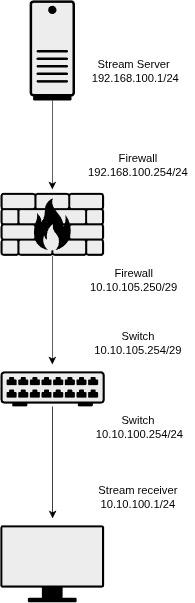
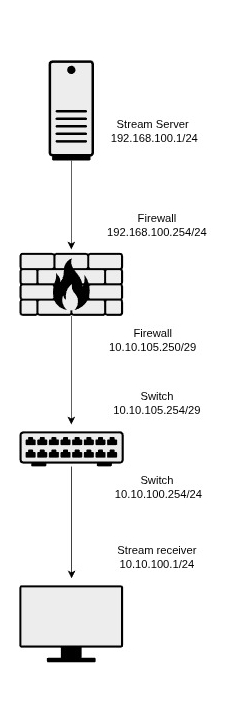
Fix image and grammar in Multicast post

Changed region(s): [[0.0, 0.0, 0.9538, 1.0], [0.4615, 0.0896, 0.9231, 0.209]]

diff --git a/_posts/2026-03-13-Aruba-FortiNet-Multicast-Routing.md b/_posts/2026-03-13-Aruba-FortiNet-Multicast-Routing.md
@@ -5,7 +5,7 @@ date: 2026-03-13
 categories: Networking
 ---
 
-Intra-vlan multicast is simple, just let default IGMP configuration do the work. But, having the traffic pass through a Firewall and Switch to be routed with Protocol Independant Multicast (PIM) introduced more of a challenge.
+Intra-vlan multicast is simple, just let default IGMP configuration do the work. But, having the traffic pass through a Firewall and Switch to be routed with Protocol Independant Multicast (PIM) introduces more of a challenge.
 While it is still pretty straight forward with PIM, what I found is a limitation in FortiOS versions below 7.6.
 
 ## Documentation 
@@ -36,10 +36,10 @@ https://datatracker.ietf.org/doc/html/rfc3973
 
 https://www.rfc-editor.org/rfc/rfc2365
 
-# My Setup
-Using VLC I stream to UDP 238.1.2.3:1234 from server 192.168.100.1 to receiver 10.10.100.1 via routed multi-vendor network.
+## The Setup
+Using VLC I stream to **UDP 238.1.2.3:1234** from server `192.168.100.1` to receiver `10.10.100.1` via routed multi-vendor network.
 
-![UDP Stream Setup](images/2026-03-14-Aruba-FortiNet-Multicast-Routing/1-multicast-setup.jpg)
+![UDP Stream Setup](/images/2026-03-14-Aruba-FortiNet-Multicast-Routing/1-multicast-setup.jpg)
 
 **From server, kill and restart stream:**
 ```
@@ -51,7 +51,7 @@ vlc -vvv sample.mp4 --sout udp:238.1.2.3:1234 --ttl 12
 For TTL in GUI: Generated stream output string section, look for `dst=238.1.2.3:1234`
 Manually prepend TTL parameter so it looks like `{access=udp{ttl=12},mux=ts,dst=238.1.2.3:1234}`
 
-**From receiver**
+**From receiver**:  
 VLC > Media > Network stream udp://@238.1.2.3:1234 
 
 ## Breaking it down:
@@ -61,11 +61,11 @@ VLC > Media > Network stream udp://@238.1.2.3:1234
 3. And enable pim on all L3 hops in the path
 4. Need IGMP on L2 facing the receiver so they can join the group
 5. Run a stream and use show commands to verify end to end stream connectivity
-6. You may need unicast connectivity for PIM reverse path forwarding calulculation RPF - I found not required in my testing.
+6. You may need unicast connectivity for PIM reverse path forwarding calulculation RPF - I found not required in my testing
 
 ## Multicast Notes:
 - The first 24 bits of a multicast MAC address always start with 01:00:5E
-- There are 3 versions of IGMP. Backwards compatible.
+- There are 3 versions of IGMP. v3 is backwards compatible with v2.
 - The switch facing the receiver needs IGMP. Default version v3 on Aruba CX
 - with PIM-SM you need to designate an RP but can be dynamic
 - Seems default behavior for Multicast stream is with **TTL=1**, this needs to be changed to support multihop with PIM.
@@ -220,65 +220,68 @@ interface vlan 100
 
 # Test, Validate and Diag
 
-Confirm there is a PIM neighbourship on the switch:
+Confirm there is a PIM neighbourship on the switch:  
 `show ip pim neighbor`
 
 **When stream is running:**
 
-Confirm the FortiGate has a route for 238.1.2.3
+Confirm the FortiGate has a route for 238.1.2.3:  
 `get router info multicast table`
 
-Confirm the switch has a route for 238.1.2.3
+Confirm the switch has a route for 238.1.2.3:  
 `show ip pim mroute`
 
-Check the switch has received IGMP Join from receiver
+Check the switch has received IGMP Join from receiver:  
 `show ip igmp`
 
-For further troubleshooting on the FortiGate, use Network > Diagnostics > Debug Flow.
+For further troubleshooting on the FortiGate, use **Network** > **Diagnostics** > **Debug Flow**
 
 You need an IGMP Querier - on AOS-S this is done by simply configuring an IP address on the vlan.
-If no IP, the switch does not participate in the querier election. I believe this is not the same for most switch vendors, instead an ip address configured on the vlan is required i.e SVI.
+If no IP, the switch does not participate in the querier election. I believe this is not the same for most switch vendors, instead an ip address configured on the vlan is required i.e an SVI.
 
 
 `show ip igmp vlan 100 config`
 
-shows port mode 'auto', test with override to forward:
+shows port mode 'auto', test with override to forward:  
 `vlan 100 ip igmp forward 1`
 `show ip igmp vlan 100 group 238.1.2.3`
 
-Test with proxy IGMP to the FW
+Test with proxy IGMP to the FW  
 `igmp-proxy-domain some.domain 10.10.105.250 238.1.2.3 238.1.2.3`
 
-Static group floods all multicast traffic to every port on the vlan, test with:
+Static group floods all multicast traffic to every port on the vlan, test with:  
 `vlan 100`
     `ip igmp static-group 238.1.2.3`
 
 
 `show ip igmp statistics`
 
-`ip arp-mcast-replies` Enables acceptance of multicast MAC addresses in the IP multicast address range in ARP requests and replies.
+Enables acceptance of multicast MAC addresses in the IP multicast address range in ARP requests and replies:  
+`ip arp-mcast-replies` 
 
-Validate next hop on the firewall:
+Validate next hop on the firewall:  
 `get router info multicast pim sparse-mode next-hop`
 
 # The catch with FortiOS
 
-- FortiOS Documentation 7.2 "Multicast routing and PIM support" - no mention of VRF.
+- FortiOS documentation 7.2 "Multicast routing and PIM support" - **no mention of VRF, supported or otherwise**
 
-- Same in 7.4 Documentation.
+- Same in 7.4 documentation.
 
 - But in 7.6:
->PIM supports all VRFs and is aware of IPv4 multicast routing and forwarding over a single overlay, enhancing network scalability and flexibility **compared to the previous VRF 0-only support.**
+>PIM supports all VRFs and is aware of IPv4 multicast routing and forwarding over a single overlay, enhancing network scalability and flexibility compared to the previous VRF 0-only support.
+
+**compared to the previous VRF 0-only support.** - this is what verified my issue.
 
 **FortiOS <7.6 only supports PIM in VRF 0.**
-I found that since I was using VRF-1 for routing this stream, it would fail because the PIM process only runs under VRF-0, it had the incorrect next hop, using the incorrect routing table. Even if both interfaces are in VRF-1 it will still operate under VRF-0 without clear indication.
+I found that since I was using VRF-1 for routing this stream, it would fail because the PIM process only runs under VRF-0, it had the incorrect next hop (the smoking gun), using the incorrect routing table. Even if all PIM interfaces are in VRF-1 it will still operate under VRF-0 without clear indication.
 
 > **NOTE**
 > At the time of writing this, **FortiManager** does not support FortiOS 7.6. If you are using FortiManager, your only option is to flip VRFs so that the stream is running under VRF-0 routing table.
 
-Multicast route leaking between vrf? Not supported, unicast only.
+Multicast route leaking between vrf? Not supported, unicast only.  
 
-### igmp, rp and bsr candidate
-Not required since we have static RP. 
-IGMP also should not be required on the firewall but seems like it is enforced
-vlan 100 ip igmp forward 1 # also not required
+### IGMP, RP and BSR Candidate
+Not required since we have static RP.  
+IGMP also should not be required on the firewall in this setup but seems like it is enforced  
+`vlan 100 ip igmp forward 1` # also not required
